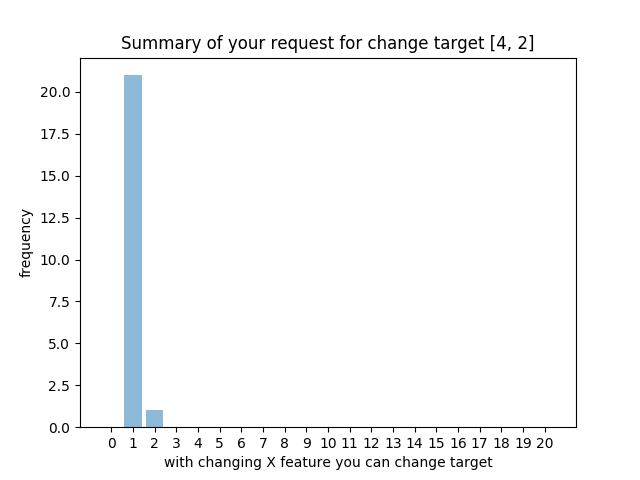
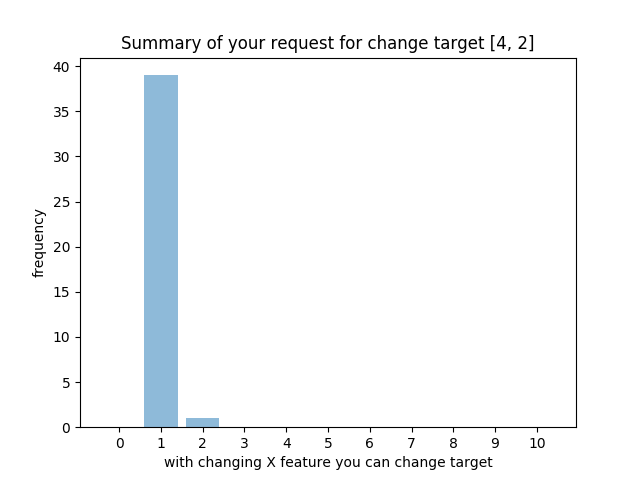
some changes

diff --git a/accuracy_drop_proj/test_elastic.py b/accuracy_drop_proj/test_elastic.py
@@ -1,58 +1,132 @@
+#
+# from sklearn.datasets import load_iris
+# from sklearn.model_selection import train_test_split
+# from sklearn.naive_bayes import MultinomialNB
+# from sklearn.metrics import f1_score
+# from sklearn.metrics import accuracy_score
+# from sklearn.metrics import classification_report
+# from sklearn.metrics import confusion_matrix
+# import random
+# import numpy as np
+# import pandas as pd
+# from sklearn.ensemble import ExtraTreesClassifier
+#
+#
+#
+# data = pd.read_csv("./EEG_data_Epileptic_Seizure_Recognition.csv")
+# data = data.drop(['Unnamed: 0'], axis=1)
+#
+# y = data.y.values
+#
+# del data["y"] # remove rings from data, so we can convert all the dataframe to a numpy 2D array.
+# X = data.values.astype(np.float)
+#
+# #find the order of the feature according to information gain
+# model = ExtraTreesClassifier()
+# model.fit(data, y)
+#
+#
+# information_gain = {}
+# for i in range(len(model.feature_importances_)):
+#     information_gain.update({i: model.feature_importances_[i]})
+#
+# col_sorted=sorted(information_gain.items(), key=lambda x:x[1],reverse=True)
+# select_col=[]
+# for i in col_sorted:
+#     select_col.append(i[0])
+#
+# print('§§§§§§§§§§§§§§§§§§§§')
+# print(select_col)
+# print('§§§§§§§§§§§§§§§§§§§§')
+#
+#
+# from mlxtend.feature_selection import SequentialFeatureSelector as SFS
+#
+# sfs1 = SFS(model,
+#            k_features=3,
+#            forward=True,
+#            floating=False,
+#            verbose=2,
+#            scoring='accuracy',
+#            cv=0)
+#
+# sfs1 = sfs1.fit(data, y)
+#
+#
+# print('&&&&&&&&&&&&&&&&&&&&&&')
+# print(sfs1.k_feature_idx_)
+# print('&&&&&&&&&&&&&&&&&&&&&&')
 
-from sklearn.datasets import load_iris
-from sklearn.model_selection import train_test_split
-from sklearn.naive_bayes import MultinomialNB
-from sklearn.metrics import f1_score
-from sklearn.metrics import accuracy_score
-from sklearn.metrics import classification_report
-from sklearn.metrics import confusion_matrix
-import random
+############################################################
 import numpy as np
-import pandas as pd
-from sklearn.ensemble import ExtraTreesClassifier
+
+
+import pyswarms as ps
+from pyswarms.utils.functions import single_obj as fx
+# Set-up hyperparameters
+def myfunction(x):
+    print(x)
+    return x
+
+def sphere_func(x):
+    """Sphere objective function.
+
+    Has a global minimum at :code:`0` and with a search domain of
+        :code:`[-inf, inf]`
+
+    Parameters
+    ----------
+    x : numpy.ndarray
+        set of inputs of shape :code:`(n_particles, dimensions)`
+
+    Returns
+    -------
+    numpy.ndarray
+        computed cost of size :code:`(n_particles, )`
+    """
+    j = (x ** 2.0).sum(axis=1)
+
+    return j
 
 
 
-data = pd.read_csv("./EEG_data_Epileptic_Seizure_Recognition.csv")
-data = data.drop(['Unnamed: 0'], axis=1)
-
-y = data.y.values
-
-del data["y"] # remove rings from data, so we can convert all the dataframe to a numpy 2D array.
-X = data.values.astype(np.float)
-
-#find the order of the feature according to information gain
-model = ExtraTreesClassifier()
-model.fit(data, y)
 
 
-information_gain = {}
-for i in range(len(model.feature_importances_)):
-    information_gain.update({i: model.feature_importances_[i]})
-
-col_sorted=sorted(information_gain.items(), key=lambda x:x[1],reverse=True)
-select_col=[]
-for i in col_sorted:
-    select_col.append(i[0])
-
-print('§§§§§§§§§§§§§§§§§§§§')
-print(select_col)
-print('§§§§§§§§§§§§§§§§§§§§')
 
 
-from mlxtend.feature_selection import SequentialFeatureSelector as SFS
-
-sfs1 = SFS(model,
-           k_features=3,
-           forward=True,
-           floating=False,
-           verbose=2,
-           scoring='accuracy',
-           cv=0)
-
-sfs1 = sfs1.fit(data, y)
+options = {'c1': 0.5, 'c2': 0.3, 'w':0.9}
+# Call instance of PSO
+optimizer = ps.single.GlobalBestPSO(n_particles=10, dimensions=2, options=options)
+# Perform optimization
+best_cost, best_pos = optimizer.optimize(myfunction, iters=100, verbose=3, print_step=25)
 
 
-print('&&&&&&&&&&&&&&&&&&&&&&')
-print(sfs1.k_feature_idx_)
-print('&&&&&&&&&&&&&&&&&&&&&&')
+
+
+
+
+
+
+
+
+
+
+
+
+
+
+
+
+
+
+
+
+
+
+
+
+
+
+
+
+

diff --git a/accuracy_drop_proj/user_interface_accuracy_drop.py b/accuracy_drop_proj/user_interface_accuracy_drop.py
@@ -61,10 +61,9 @@ print(x_test.shape)
 # y_pred = model.predict(x_test)
 # print('Accuracy of tree classifier on test set: {:.2f}'.format(accuracy_score(y_test,y_pred)))
 #-----------------------------------------------------------------------------
+print("train LogisticRegression")
 from sklearn.linear_model import LogisticRegression
-
 model= LogisticRegression(C=1e5, solver='lbfgs', multi_class='multinomial')
-
 model.fit(x_train, y_train)
 print('Accuracy of regresiion classifier on test set: {:.2f}'.format(model.score(x_test, y_test)))
 
@@ -78,8 +77,8 @@ print('Accuracy of regresiion classifier on test set: {:.2f}'.format(model.score
 # mymethod =Change_Combination_Min()     #Alg1
 # mymethod=Change_Combination_Feature_Min() #Alg2
 # mymethod = Change_Ranked_Feature_Informationgain()
-mymethod = Change_Uncertainty_Rankfeatures() #Alg3
-# mymethod = Change_ProbabilityDistance_RankFeature() #Alg4
+# mymethod = Change_Uncertainty_Rankfeatures() #Alg3
+mymethod = Change_ProbabilityDistance_RankFeature() #Alg4
 
 
 #-------------------------- change plan ---------------------------------------------
@@ -90,7 +89,7 @@ start = time.time()
 
 
 
-change_plan={"key":[[4,2],[3,5]],"number":[22,3]}
+change_plan={"key":[[4,2],[3,5]],"number":[40,10]}
 
 
 # change_plan={"key":[[0,1],[2,1]],"number":[10,10]}

diff --git a/accuracy_drop_proj/strategies/change_uncertaint_rankfeatures/change_uncertainty_rankfeatures.py b/accuracy_drop_proj/strategies/change_uncertaint_rankfeatures/change_uncertainty_rankfeatures.py
@@ -35,6 +35,7 @@ class Change_Uncertainty_Rankfeatures(object):
         for i in range(len(model.feature_importances_)):
             information_gain.update({i: model.feature_importances_[i]})
 
+        print(information_gain)
         ranked_information_dic = {}
         sum_gain = 0
         for L in range(0,x_train.shape[1] + 1 ):
@@ -42,7 +43,7 @@ class Change_Uncertainty_Rankfeatures(object):
                 if not subset:
                     pass
                 else:
-
+                    print(subset)
                     for key in subset:
                         sum_gain = sum_gain + information_gain.get(key)
                     ranked_information_dic.update({tuple(subset): sum_gain})
@@ -51,7 +52,7 @@ class Change_Uncertainty_Rankfeatures(object):
         print("create all subset")
 
         all_subset = sorted(ranked_information_dic.items(), key=lambda item: len(item[0]) * 1000 - item[1], reverse=False)
-
+        print(all_subset)
 
         #---------------------------finding the order of the row according to uncertainity-------------------------
 

diff --git a/accuracy_drop_proj/utilities/load_dataset/eeg_loader.py b/accuracy_drop_proj/utilities/load_dataset/eeg_loader.py
@@ -17,11 +17,11 @@ class EEG_Loader(object):
         data = data.drop(['Unnamed: 0'], axis=1)
 
         del data["y"]  # remove rings from data, so we can convert all the dataframe to a numpy 2D array.
-        data2=data.iloc[:, [0, 1, 2, 3, 4, 5, 6, 7, 8, 9,10, 11, 12, 13, 14, 15, 16, 17, 18, 19,20, 21, 22, 23, 24, 25, 26, 27, 28, 29]]
+        data2=data.iloc[:, [0, 1, 2, 3, 4, 5, 6, 7, 8, 9]]
         X = data2.values.astype(np.float)
 
 
-        x_train, x_test, y_train, y_test = train_test_split(X, y, test_size= 0.043478260869565216 , random_state=4)
+        x_train, x_test, y_train, y_test = train_test_split(X, y, test_size= 0.086956522 , random_state=4)
 
         print(x_test.shape)
 
